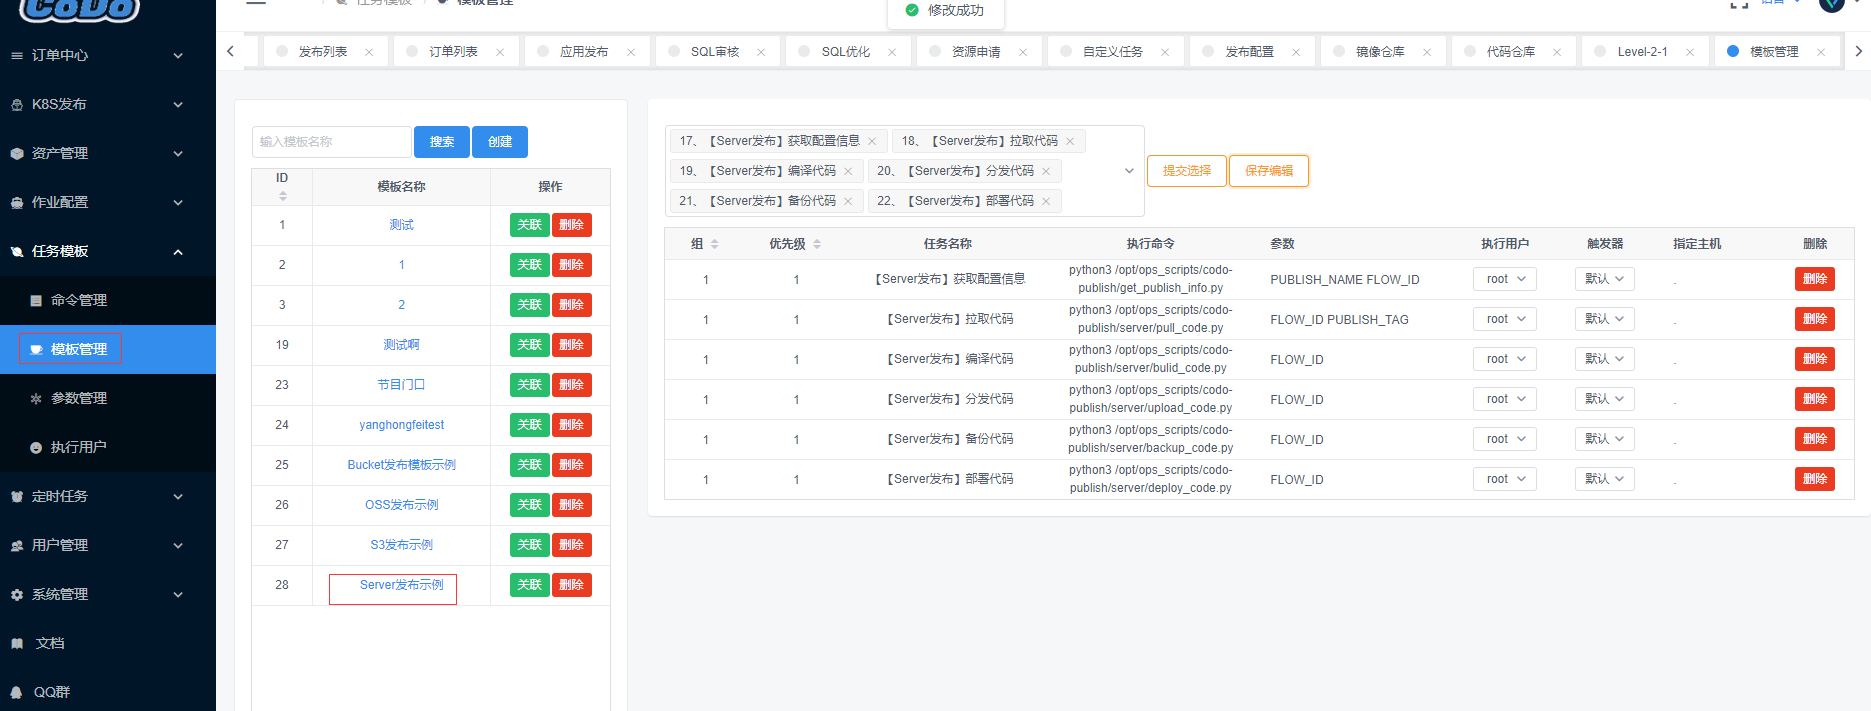
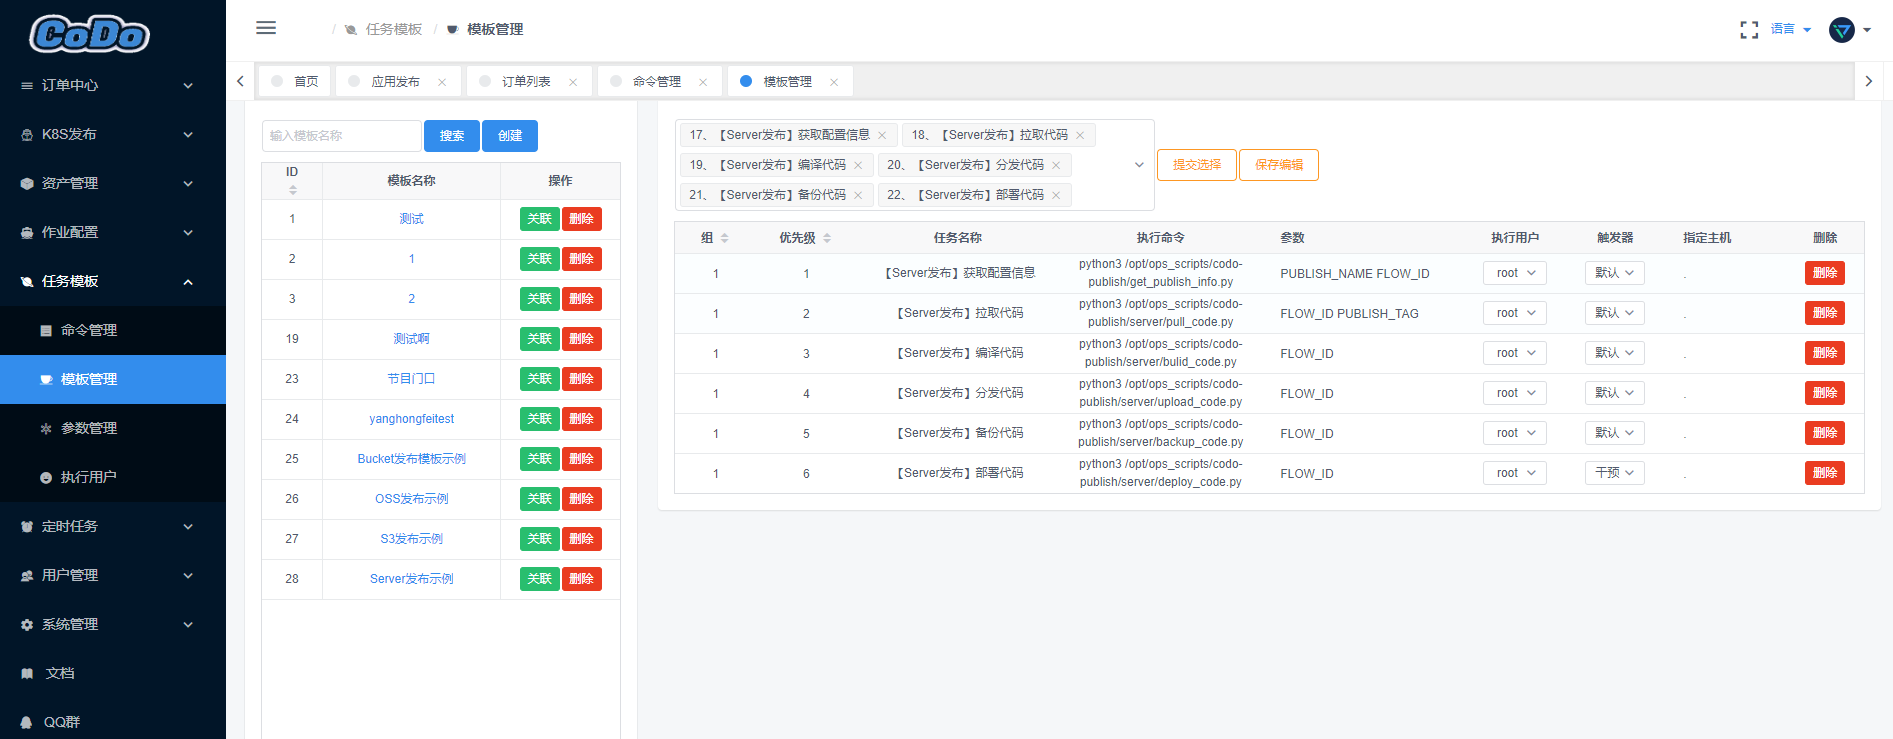
添加作业配置文档

diff --git a/docs/source/job_configure.md b/docs/source/job_configure.md
@@ -44,6 +44,12 @@ api_gw = 'gw.opendevops.cn'
 
 > 这里需要你创建一个模板，如：Server发布示例，添加你的命令，自由排版，模板管理文档参考：[任务模板](http://docs.opendevops.cn/zh/latest/task_template.html#)
 
+- 组：1的为第一组
+- 优先级： 按数字顺序执行
+- 参数：PUBLISH_NAME和FLOW_ID都是系统变量，不要修改
+- 执行用户： 默认127.0.0.1可不选，保持默认即可
+- 触发器：这里支持定时支持、人工干预、直接执行，默认是直接执行
+
 ![bash_list](./_static/images/publish_server_temp.png)
 
 
@@ -82,6 +88,11 @@ api_gw = 'gw.opendevops.cn'
 当你点击到这个任务的时候，我们会把任务信息给展示出来方便你来确认，最后需要你进行审批，可选择时间执行。
 
 ![](./_static/images/publish_audit.png)
+
+如下图示例有一个手工干预的，需要你点击终止全部旁边的干预名称进行执行。
+
+![](./_static/images/publish_commit.png)
+
 点击完审批后会进入等待执行，随后会按照你模板里面的顺序进行执行
 
 ![](./_static/images/publish_wait.png)

diff --git a/docs/source/user_guide.rst b/docs/source/user_guide.rst
@@ -12,6 +12,5 @@
    event_reminder
    job_configure
    cmdb_manager
-   app_publish
    user_manager
    system_config
